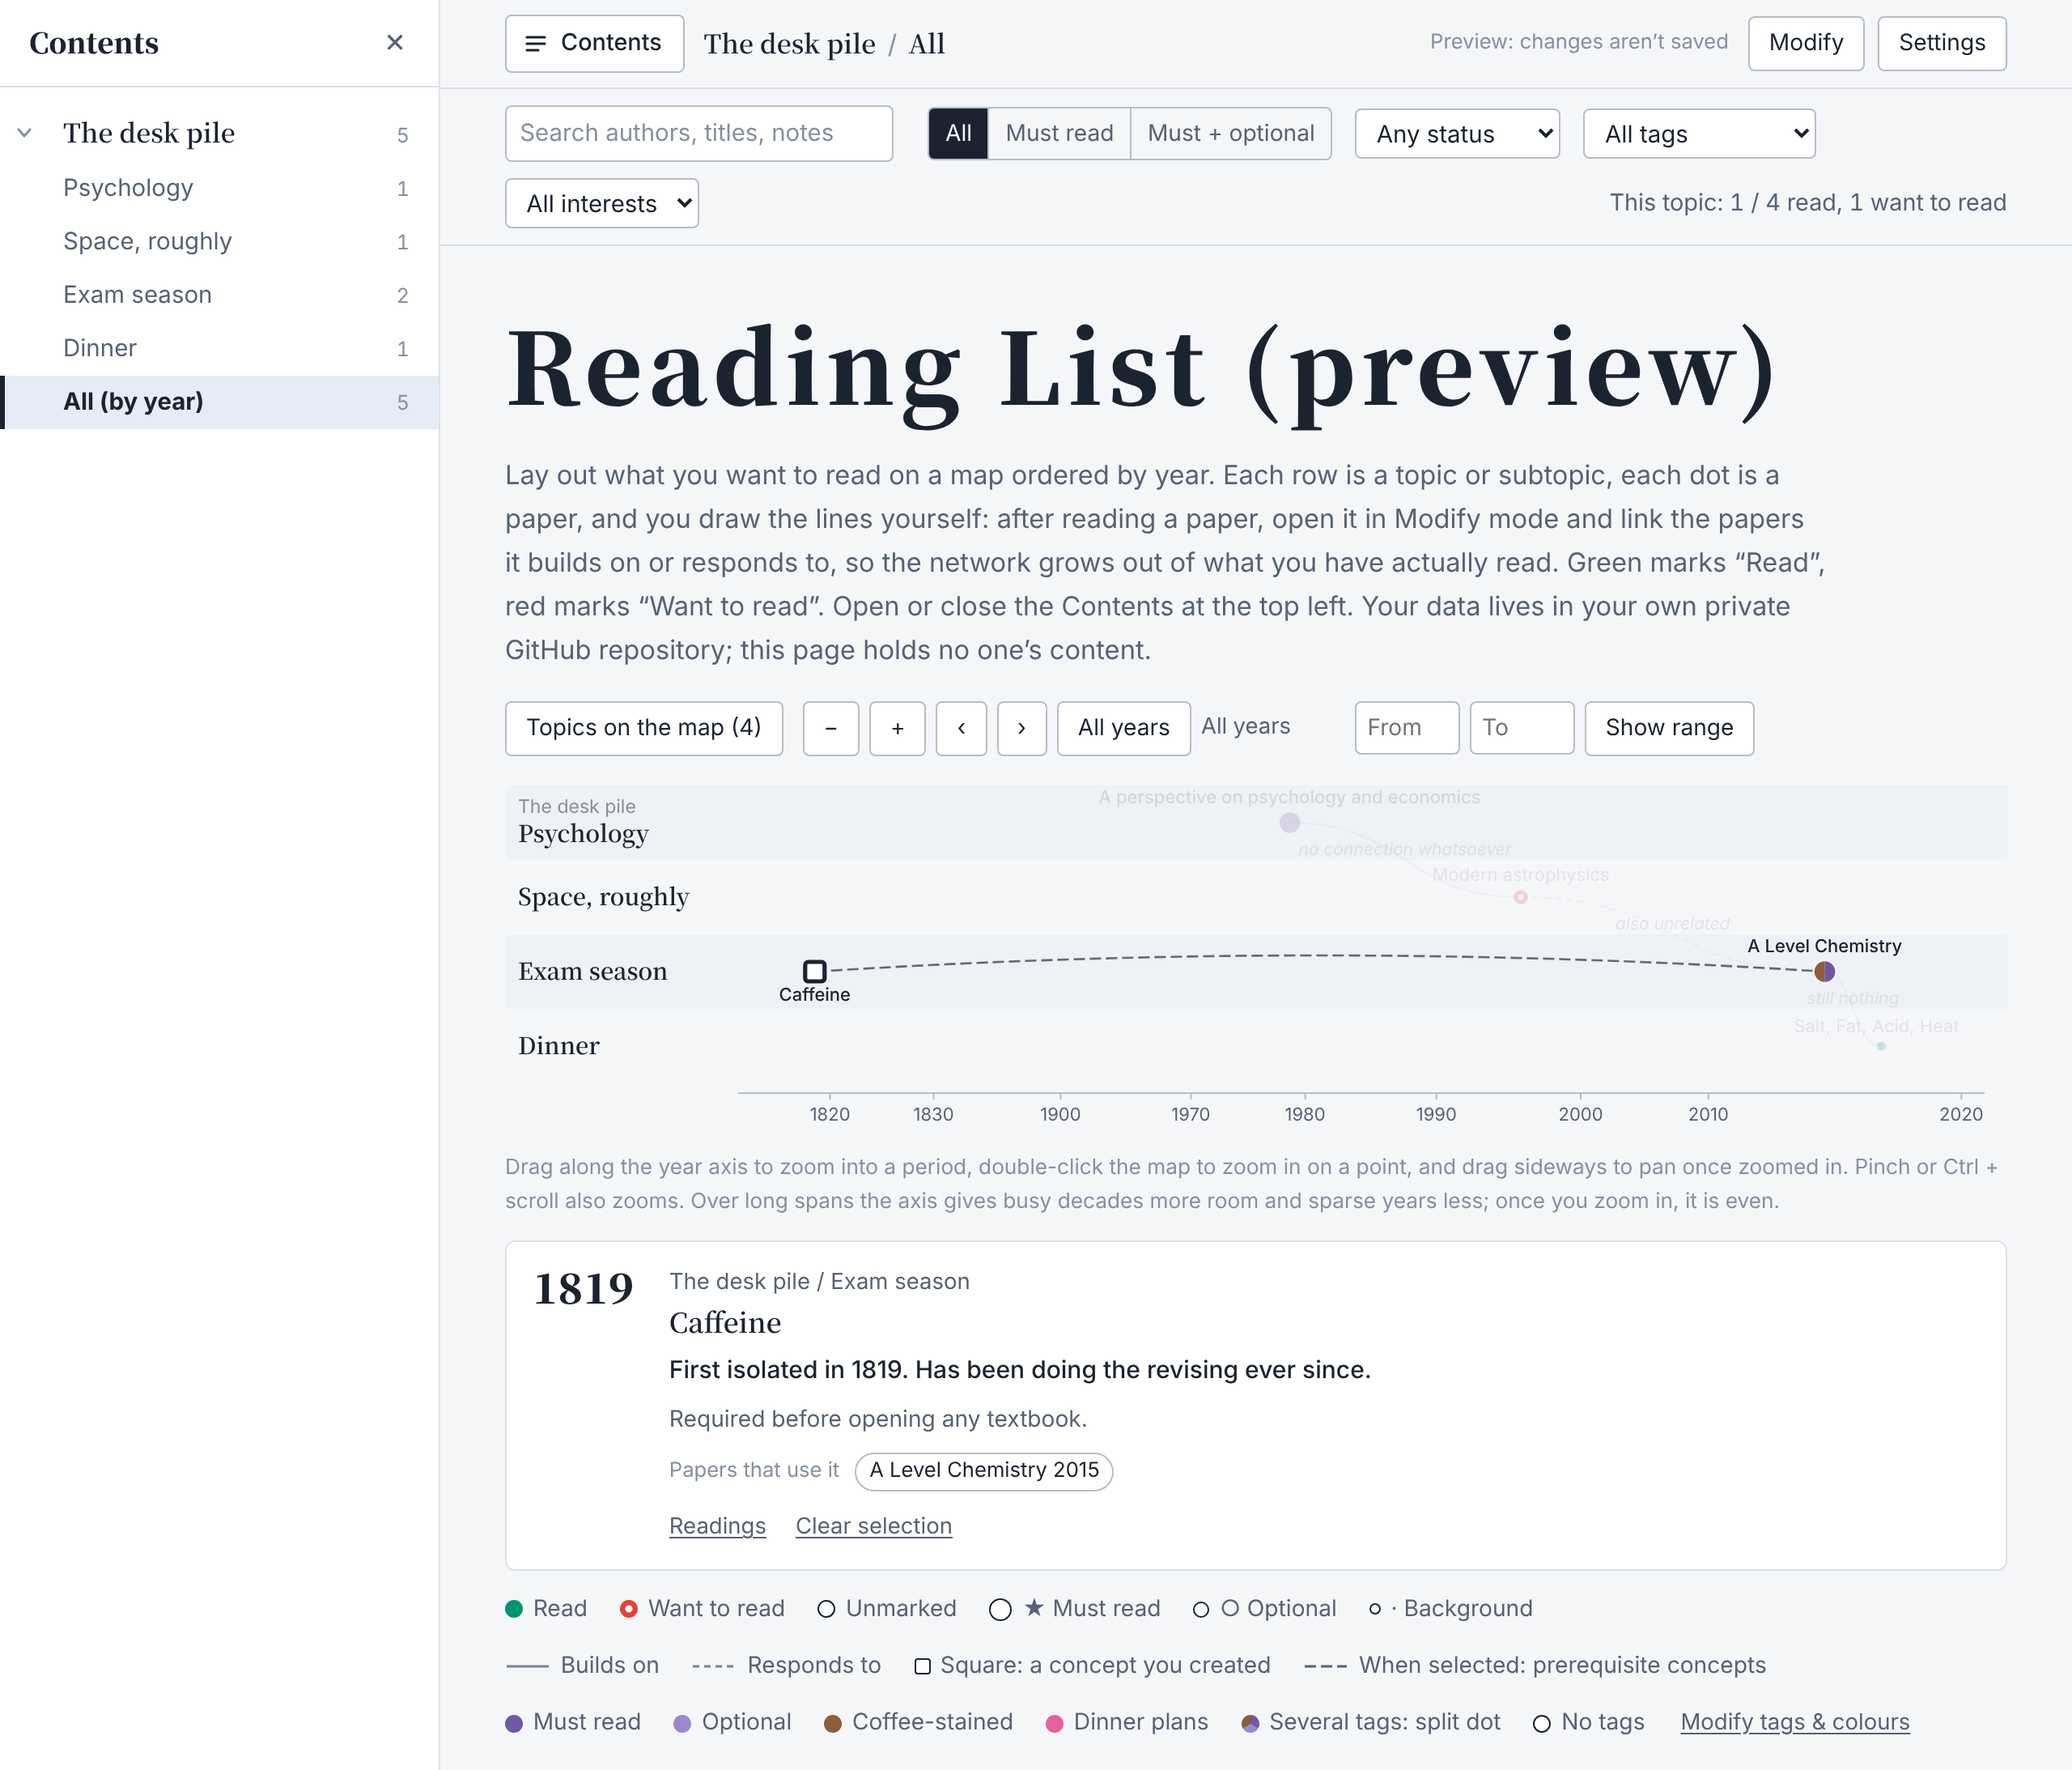
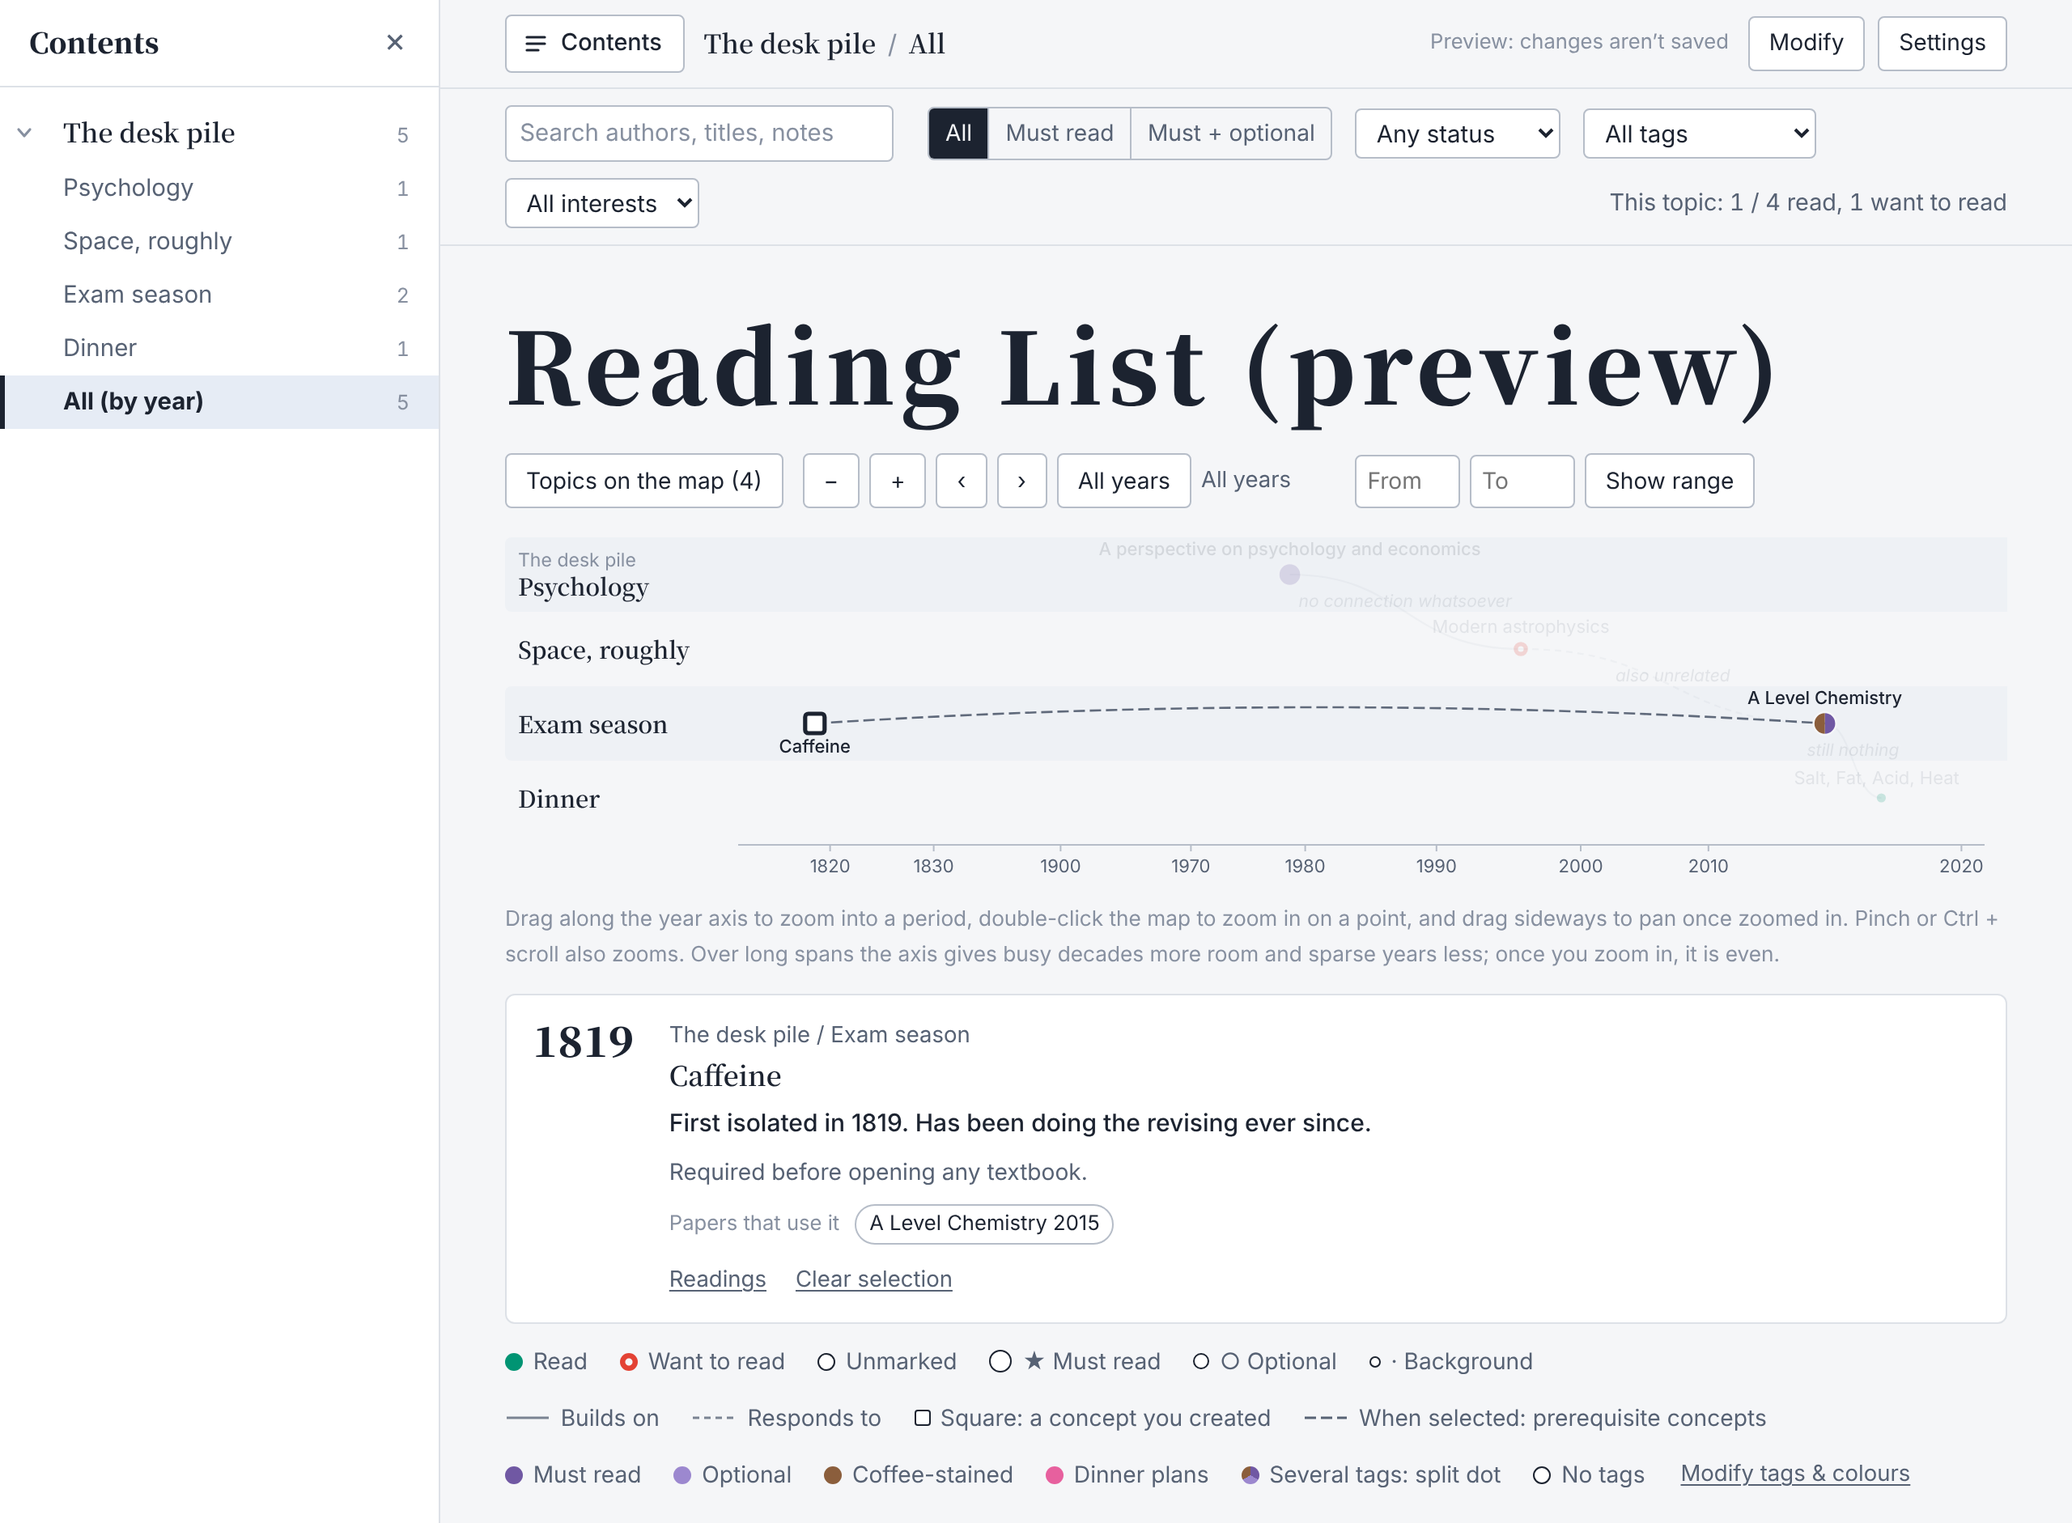
updated git access information

diff --git a/index.html b/index.html
@@ -69,7 +69,6 @@ button{font:inherit;color:inherit}
 /* hero */
 .hero{padding-top:clamp(20px,4vw,40px)}
 h1{font-family:var(--serif);font-weight:900;font-size:clamp(2.2rem,6.6vw,3.8rem);line-height:1.1;letter-spacing:.06em;margin:0 0 .35em}
-.lede{max-width:50em;color:var(--muted);font-size:1.02rem;margin:0 0 1.1em}
 .cap{font-size:.86rem;color:var(--muted);max-width:56em;margin:10px 0 0}
 
 /* map toolbar */
@@ -511,7 +510,6 @@ textarea.backup{width:100%;min-height:220px;font-family:ui-monospace,Menlo,Conso
 
 <header class="hero wrap">
   <h1 id="appTitle">Reading List</h1>
-  <p class="lede">Lay out what you want to read on a map ordered by year. Each row is a topic or subtopic, each dot is a paper, and you draw the lines yourself: after reading a paper, open it in Modify mode and link the papers it builds on or responds to, so the network grows out of what you have actually read. Green marks “Read”, red marks “Want to read”. Open or close the Contents at the top left. Your data lives in your own private GitHub repository; this page holds no one’s content.</p>
 
   <div class="map-tools">
     <button type="button" class="btn" id="btnLanes" aria-expanded="false" aria-controls="lanePicker">Topics on the map</button>
@@ -2278,7 +2276,7 @@ function ghSectionHTML(){
     '<p class="hint">Recommended: the copy in this browser is lost if its data is cleared. This keeps your list in a private GitHub repository you own: each change is saved there within seconds, earlier versions stay in its history, and you can open the list on any device. The token stays in this browser only.</p>' +
     (has ? '' : '<ol class="gh-steps">' +
       '<li><a href="' + REPO_LINK + '" target="_blank" rel="noopener">Create a private repository</a>. The name is filled in; tick <em>Add a README file</em>.</li>' +
-      '<li><a href="' + TOKEN_LINK + '" target="_blank" rel="noopener">Create a token</a>: under Repository access, choose <em>Only select repositories</em> and pick that repository. Everything else is filled in.</li>' +
+      '<li><a href="' + TOKEN_LINK + '" target="_blank" rel="noopener">Create a token</a>: under Repository access, choose <em>Only select repositories</em> and pick that repository. The only permission it needs, <em>Contents: Read and write</em>, is already filled in; remove anything else.</li>' +
       '<li>Paste the token below and click Connect.</li></ol>') +
     '<div class="form-grid">' +
     '<label>Repository<input type="text" id="ghRepo" autocomplete="off" spellcheck="false" value="' + esc(g.repo || 'readinglist-data') + '"></label>' +

diff --git a/README.md b/README.md
@@ -1,8 +1,8 @@
 # Reading List
 
-![Papers on a timeline, joined by hand-drawn lines](assets/preview.png)
-
 A family tree for the papers you read.
+
+![Papers on a timeline, joined by hand-drawn lines](assets/preview.png)
 
 Papers sit on a timeline, one row per topic. Mark what you have read and what you want to read, tag things in your own colours, and draw the lines between papers yourself. It is one HTML file, with nothing to install.
 
@@ -21,12 +21,18 @@ To start from the example instead, use **Settings → Data → Import backup** a
 The copy in your browser is lost if its data is cleared. A private repository of your own keeps every change and every earlier version, and works on any computer.
 
 1. [Create a private repository](https://github.com/new?name=readinglist-data&visibility=private) and tick **Add a README file**.
-2. [Create a token](https://github.com/settings/personal-access-tokens/new?name=Reading+List&expires_in=366&contents=write). Under Repository access, choose **Only select repositories** and pick that repository.
+2. [Create a token](https://github.com/settings/personal-access-tokens/new?name=Reading+List&expires_in=366&contents=write). Under Repository access, choose **Only select repositories** and pick that repository. Under Permissions, the only one needed is **Contents: Read and write**. The link already sets it, and **Metadata (read-only)** comes with it automatically; remove anything else.
 3. In the page, open **Settings → GitHub sync**, paste the token and click **Connect**.
 
-On another computer, simply download `index.html` again and paste the token once more.
+### First time
 
-## Repository Structure
+When you click **Connect**, the page creates `data/readinglist.json` in your private repository. That one file is your whole list, so you don't need to make it yourself. Already have a backup? Import it first (**Settings → Data → Import backup**), then connect, and the backup becomes that file.
+
+If the page says the repository can't be found, the token doesn't include it yet: open the token on GitHub and add the repository under **Repository access**.
+
+On another computer, download `index.html` again and paste the token once more.
+
+## Structure
 
 ```
 /
